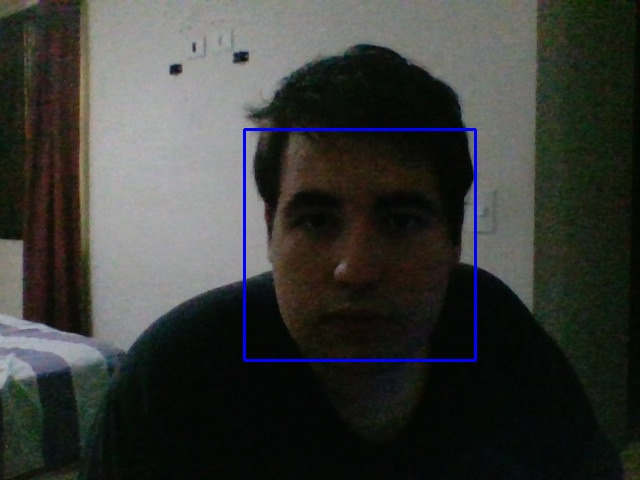
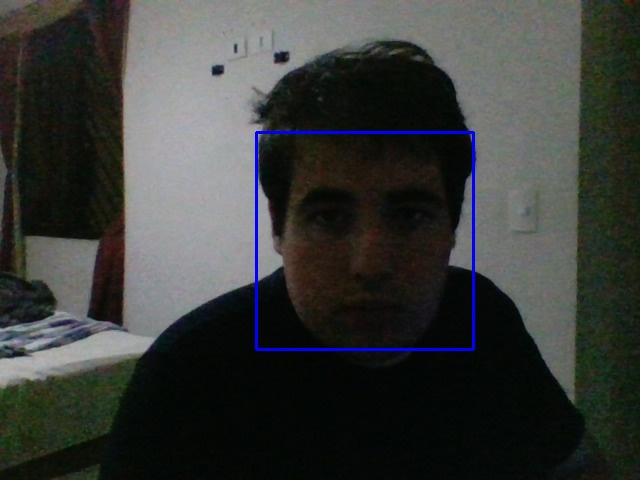
v1.5.0
Melhora no tirar foto e app está funcionando

diff --git a/source/register_app.py b/source/register_app.py
@@ -1,0 +1,81 @@
+import tkinter as tk
+from tkinter import messagebox
+from take_and_analyze_a_picture import tirar_e_analisar_foto
+from database_connection import conexao_a_database
+
+
+# Função para salvar os dados no banco de dados
+def salvar_dados(nome, cargo, image_path):
+    if nome and cargo and image_path:
+        try:
+            with conexao_a_database() as conn:
+                cursor = conn.cursor()
+                cursor.execute('''
+                    INSERT INTO pessoasautorizadas (nome_completo, cargo, rosto) VALUES (%s, %s, %s)
+                ''', (nome, cargo, image_path))
+                conn.commit()
+            messagebox.showinfo("Sucesso", "Dados inseridos com sucesso!")
+        except Exception as e:
+            if "image_path" in str(e):
+                messagebox.showerror("Erro", "Tire uma foto antes de salvar")
+            else:
+                messagebox.showerror("Erro", f"Erro ao salvar os dados: {e}")
+    else:
+        messagebox.showwarning("Aviso", "Preencha todos os campos e tire uma foto antes de salvar!")
+
+
+def tirar_foto_wrapper():
+    try:
+        with conexao_a_database() as conn:
+            cursor = conn.cursor()
+            cursor.execute("SELECT MAX(id) FROM pessoasautorizadas")
+            max_id = cursor.fetchone()[0]
+            next_id = 1 if max_id is None else max_id + 1
+
+            image_path = 'faces/employees/'
+            image_name = f'face_{next_id}.jpg'
+            return tirar_e_analisar_foto(image_path, image_name)
+    except Exception as e:
+        messagebox.showerror("Erro", f"Erro ao tirar a foto: {e}")
+        return None
+
+
+def criar_ui():
+    root = tk.Tk()
+    root.title("Registro de Funcionários")
+
+    tk.Label(root, text="Nome Completo").grid(row=0, column=0, padx=10, pady=10)
+    entry_nome = tk.Entry(root)
+    entry_nome.grid(row=0, column=1, padx=10, pady=10)
+
+    tk.Label(root, text="Cargo").grid(row=1, column=0, padx=10, pady=10)
+    cargo_var = tk.StringVar()
+    cargos = ["Ministro", "Diretor de Pesquisa", "Coordenador de Segurança", "Assessor de Comunicação",
+              "Analista de Dados", "Estagiário"]
+
+    for idx, cargo in enumerate(cargos):
+        tk.Radiobutton(root, text=cargo, variable=cargo_var, value=cargo).grid(row=2 + idx, column=1, padx=10, pady=2,
+                                                                               sticky=tk.W)
+
+    def on_tirar_foto():
+        global image_path
+        image_path = tirar_foto_wrapper()
+
+    def on_salvar_dados():
+        global image_path
+        nome = entry_nome.get()
+        cargo = cargo_var.get()
+        salvar_dados(nome, cargo, image_path)
+        image_path = None  # Reseta o image_path para que o usuario possa continuar adicionando funcionarios
+
+    btn_foto = tk.Button(root, text="Tirar Foto", command=on_tirar_foto)
+    btn_foto.grid(row=8, column=1, padx=10, pady=10)
+
+    btn_salvar = tk.Button(root, text="Salvar", command=on_salvar_dados)
+    btn_salvar.grid(row=9, column=1, padx=10, pady=10)
+
+    root.mainloop()
+
+
+# Executar a UI
+criar_ui()

diff --git a/source/take_and_analyze_a_picture.py b/source/take_and_analyze_a_picture.py
@@ -2,9 +2,9 @@ import cv2
 import os
 
 
-def tirar_foto():
-    # Caminho onde a imagem será salva
-    save_path = 'faces/analyzing'
+def tirar_e_analisar_foto(save_path, image_name):
+    print(
+        "Tirando foto...\nCertifique-se de que a câmera está funcionando corretamente.\nDeixe o rosto bem centralizado.")
 
     # Verifica se a pasta existe, caso contrário, cria
     if not os.path.exists(save_path):
@@ -22,13 +22,19 @@ def tirar_foto():
     # Verifica se a captura foi bem-sucedida
     if not ret:
         print("Não foi possível capturar a imagem.")
+        cap.release()
+        return None
+
+    # Converter a imagem para escala de cinza
+    gray = cv2.cvtColor(frame, cv2.COLOR_BGR2GRAY)
+
+    # Detectar rostos na imagem
+    faces = face_cascade.detectMultiScale(gray, scaleFactor=1.1, minNeighbors=5)
+
+    if len(faces) == 0:
+        print("Nenhum rosto detectado.")
     else:
-        # Converter a imagem para escala de cinza
-        gray = cv2.cvtColor(frame, cv2.COLOR_BGR2GRAY)
-
-        # Detectar rostos na imagem
-        faces = face_cascade.detectMultiScale(gray, scaleFactor=1.1, minNeighbors=5)
-
+        print(f"{len(faces)} rosto(s) detectado(s).")
         # Desenhar retângulos ao redor dos rostos detectados
         for (x, y, w, h) in faces:
             cv2.rectangle(frame, (x, y), (x + w, y + h), (255, 0, 0), 2)
@@ -36,8 +42,8 @@ def tirar_foto():
         # Mostrar a imagem com os rostos detectados
         cv2.imshow('faces Detectados', frame)
 
-        # Salvar a imagem capturada na pasta 'faces/analyzing'
-        image_path = os.path.join(save_path, 'imagem_capturada.jpg')
+        # Salvar a imagem capturada na pasta especificada
+        image_path = os.path.join(save_path, image_name)
         cv2.imwrite(image_path, frame)
         print(f"Imagem salva em: {image_path}")
 
@@ -45,6 +51,4 @@ def tirar_foto():
     cap.release()
     cv2.destroyAllWindows()
 
-
-# Exemplo de uso
-tirar_foto()
+    return image_path

diff --git a/source/main.py b/source/main.py
@@ -1,15 +1,12 @@
-from take_a_picture import tirar_foto
-from picture_analyze import analisa_rosto
+from take_and_analyze_a_picture import tirar_e_analisar_foto
 from database_connection import conexao_a_database
-import face_comparison
+from face_comparison import comparar_faces_funcionarios
 from file_opening import abrir_arquivos
 
-
 # Bloco destinado a captura, analise e comparação de rostos
-# Não é necessário implementar os métodos: tirar_foto, analisa_rosto e conexao_a_database,
-# pois já foram implementados em seus respectivos scripts e são executados quando
-# chamados.
-cargo_do_analisado = face_comparison.cargo_do_analisado
+image_path = tirar_e_analisar_foto('faces/analyzing', 'imagem_capturada.jpg')
+cargo_do_analisado = comparar_faces_funcionarios(image_path)  # TODO: Melhorar o reconhecimento facial
+print(f"Cargo do analisado: {cargo_do_analisado}")
 
 # Definindo os níveis de acesso
 nivel_acesso1 = ['Coordenador de Segurança', 'Assessor de Comunicação', 'Analista de Dados']

diff --git a/source/face_comparison.py b/source/face_comparison.py
@@ -85,9 +85,3 @@ def comparar_faces_funcionarios(image_path):
     conn.close()
 
     return cargo_do_analisado
-
-
-# Exemplo de uso
-image_path = 'faces/analyzing/imagem_capturada.jpg'
-cargo_do_analisado = comparar_faces_funcionarios(image_path)
-print(f"Cargo do analisado: {cargo_do_analisado}")

diff --git a/source/file_opening.py b/source/file_opening.py
@@ -9,7 +9,3 @@ def abrir_arquivos(valor):
         print(f"Abrindo Arquivo {valor}")
     else:
         print(f"Arquivo {file_path} não encontrado. Verifique se o caminho está correto e se o arquivo existe.")
-
-
-# Exemplo de uso
-# abrir_arquivos(1)

diff --git a/README.md b/README.md
@@ -1,16 +1,9 @@
-### Funcionamento Base
-1. Tira a foto (take_a_picture.py) ✅
-2. Analisa a foto (face_recognition.py) ✅
-3. Abre conexão com o banco de dados (database_connection.py) ✅
-4. Compara a foto com o banco de dados (face_comparison.py)
-5. Libera o acesso aos pdfs (file_opening.py) ✅
-
 ### Problemas Conhecidos
-
+[ ] Melhorar o reconhecimento facial
 
 ### A fazer ainda
 [ ] Conectar o Banco de Dados a rede do Hugo
-[ ] Criar o comparar_faces_perigosos() para comparar com os rostos perigosos
+[ ] Criar o comparar_faces_perigosos() para comparar com os rostos perigosos (TALVEZ)
 
 ### Links Importantes
 https://trello.com/b/DGHwHJAm/aps
